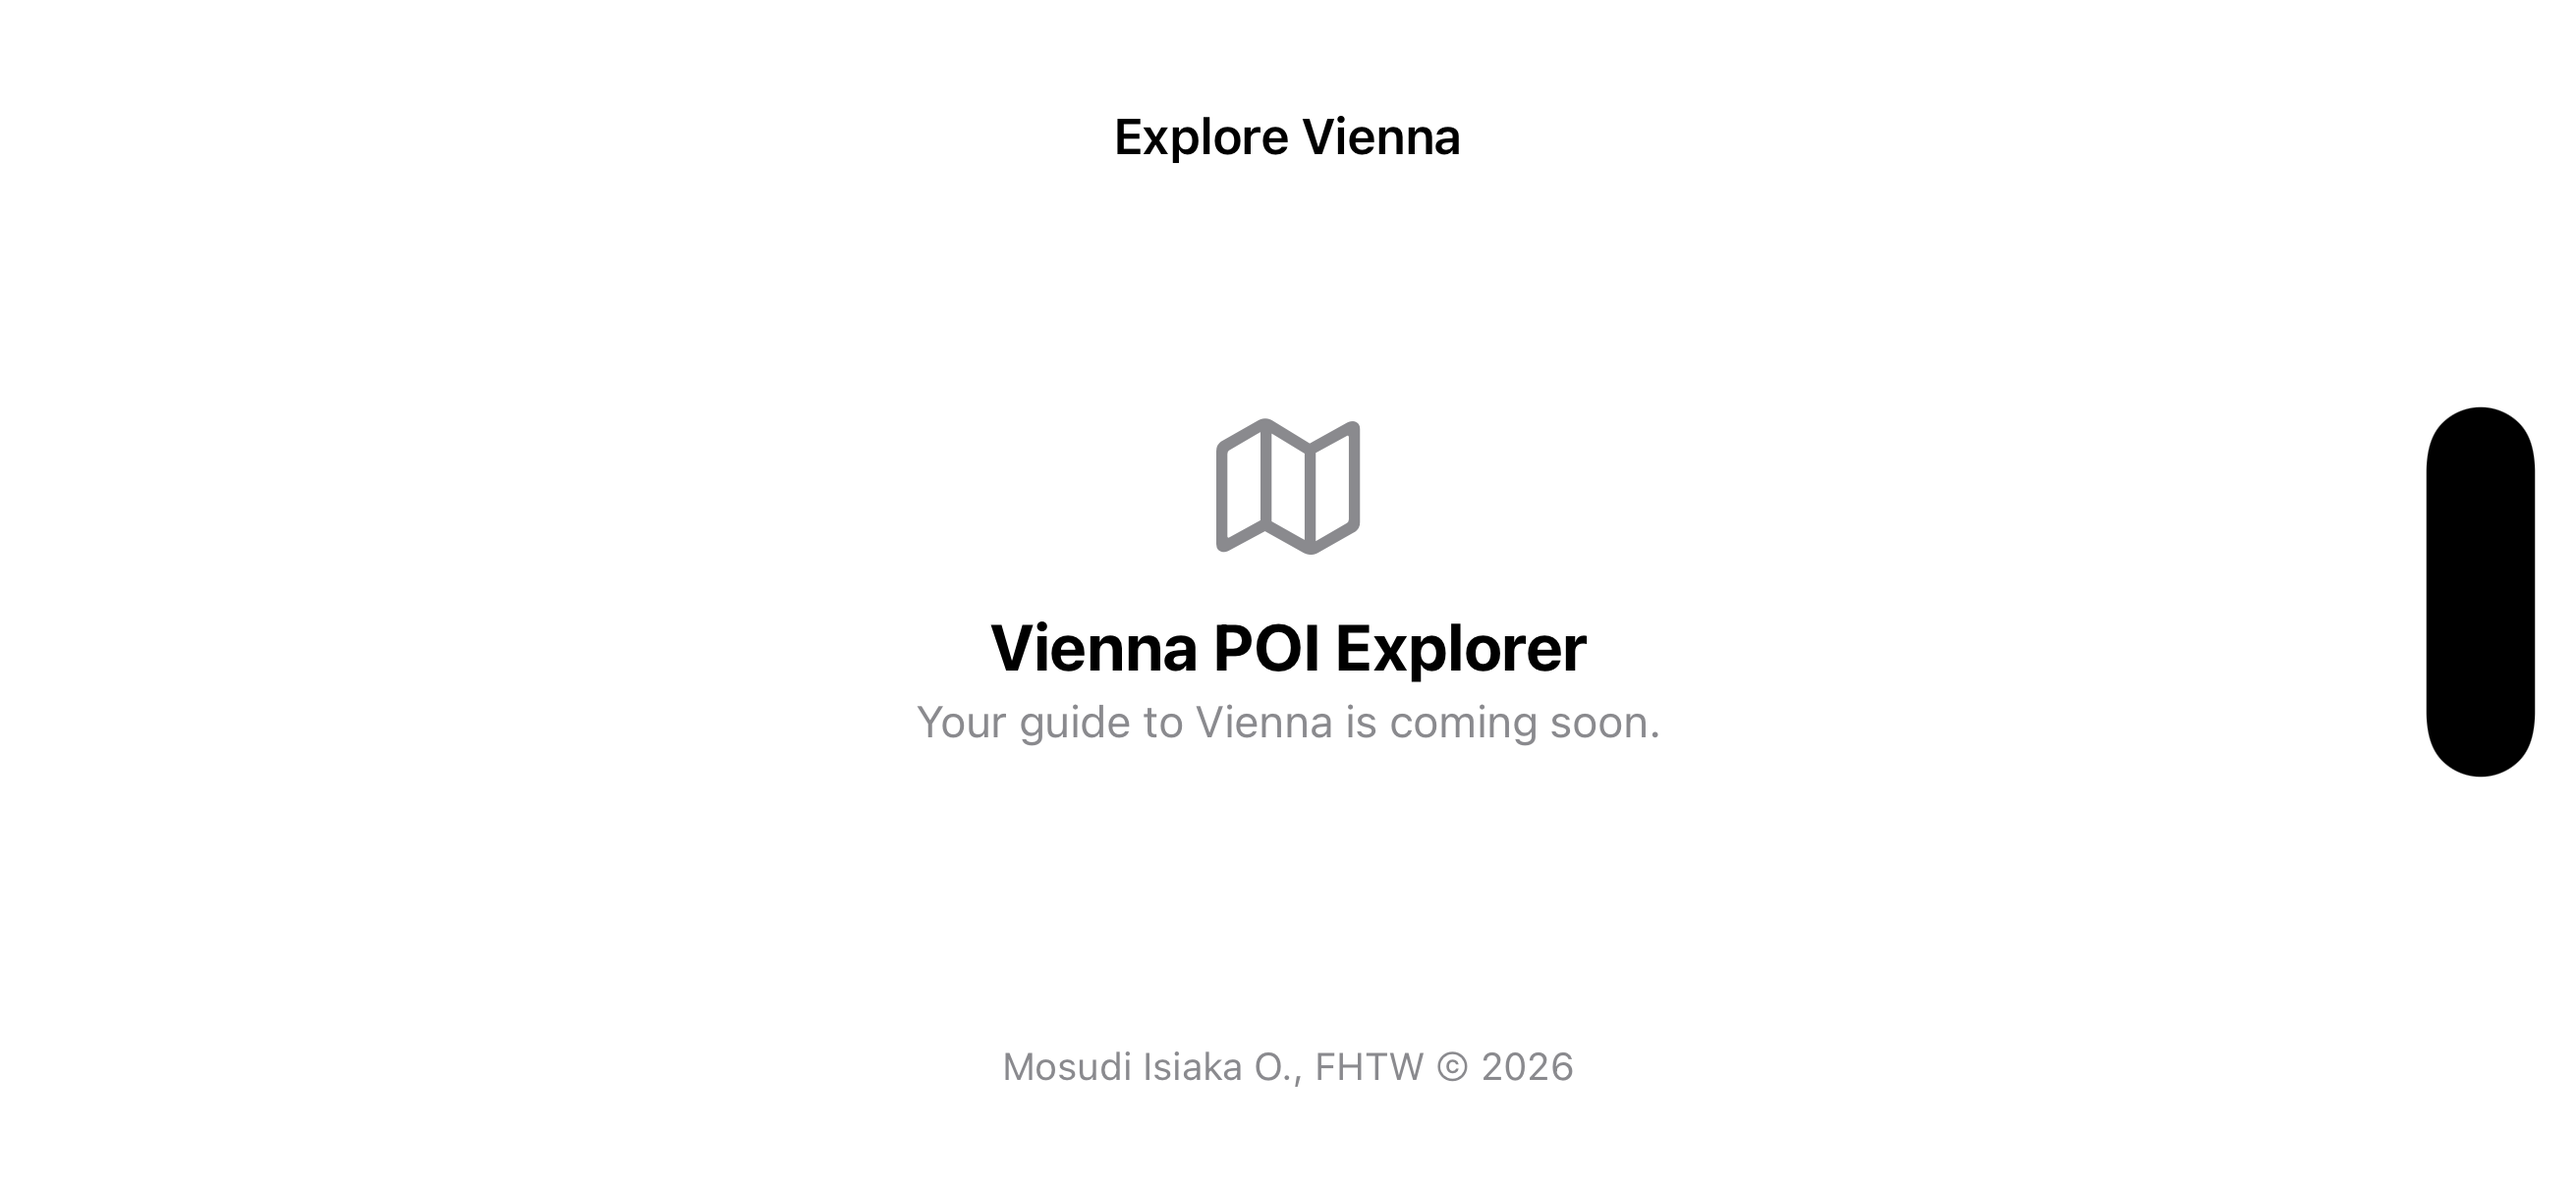
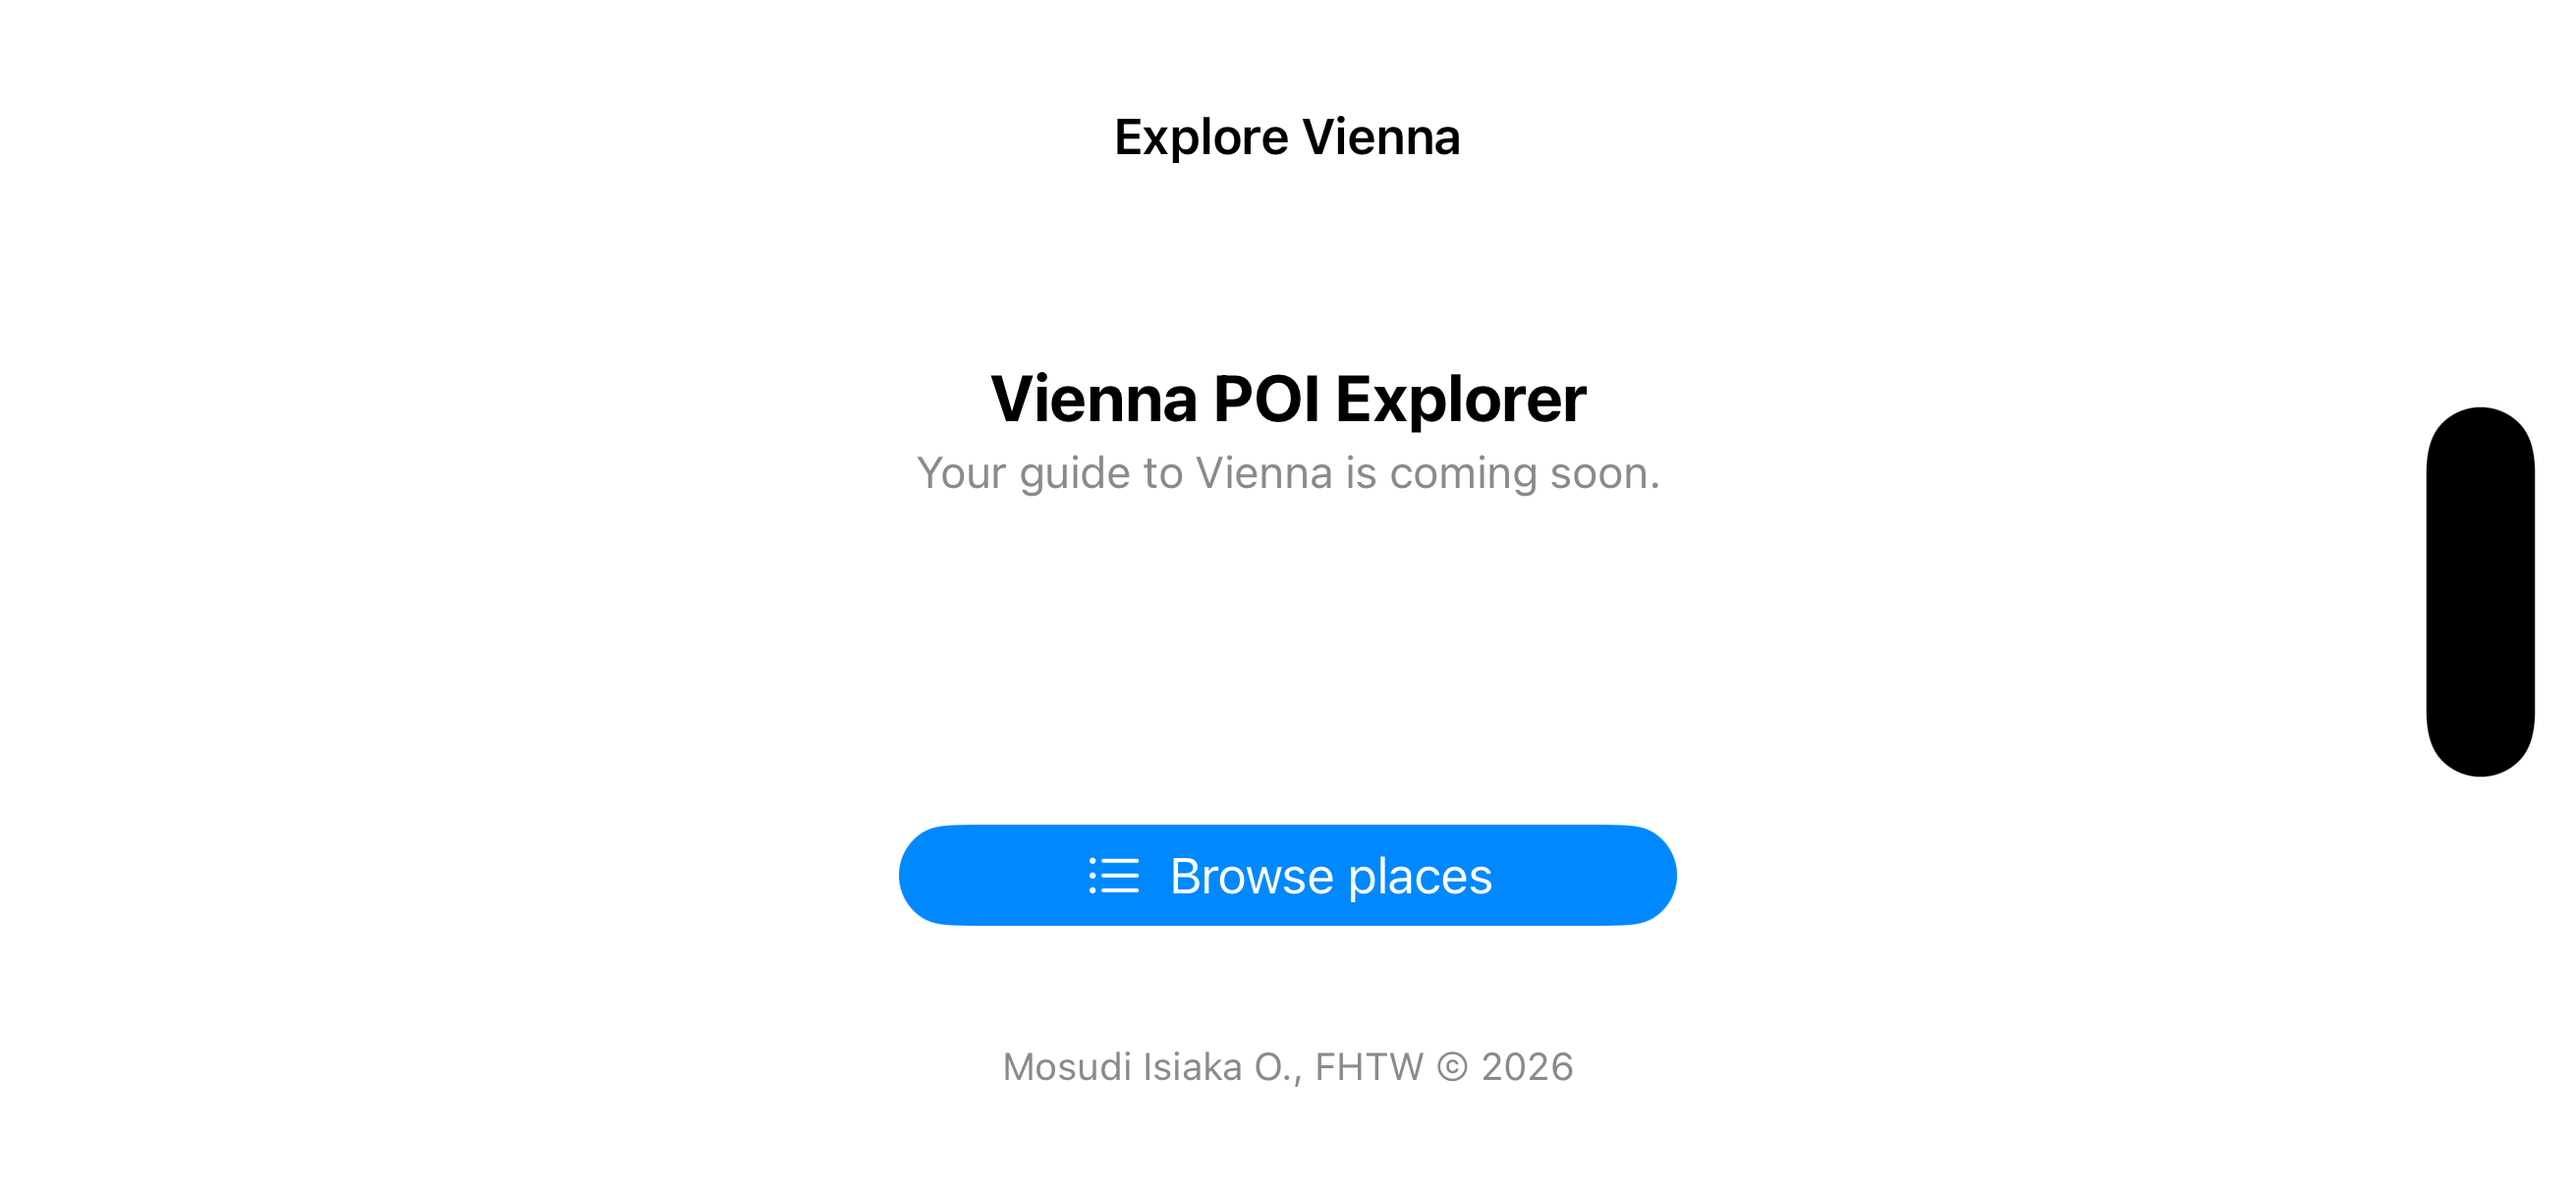
Screenshots

Changed region(s): [[0.3398, 0.675, 0.6487, 0.7977], [0.3707, 0.5216, 0.6487, 0.6443], [0.3707, 0.3068, 0.6487, 0.4602]]

diff --git a/README.md b/README.md
@@ -23,12 +23,18 @@ The app loads the City of Vienna dataset [Sehenswürdigkeiten Standorte Wien](ht
 
 Features without a stable identifier, a non-empty name, a `Point` geometry, or finite in-range coordinates are skipped instead of becoming invalid map/list entries. Missing descriptive values remain optional, invalid optional web links are omitted, and extra coordinate dimensions are ignored. Marker colour reflects only whether a valid `WEITERE_INF` link is present. The sample fixture in `poi-vienna-explorerTests/Fixtures/` contains unmodified records from the official response, including its nullable `SE_ANNO_CAD_DATA` field.
 
-## Debug screenshot
+## Screenshots
 
-Portrait:
+### Home screen
 
-![Vienna POI Explorer running in the iPhone simulator](screenshots/debug-screenshot.png)
+![Home screen in landscape](screenshots/debug-screenshot.png)
 
-Landscape:
+![Home screen in portrait](screenshots/debug-screenshot-landscape.png)
 
-![Vienna POI Explorer running in landscape in the iPhone simulator](screenshots/debug-screenshot-landscape.png)
+### POI map
+
+![POI map and selected place in landscape](screenshots/debug-screenshot-map-landscape.png)
+
+![POI map and selected place in portrait](screenshots/debug-screenshot-map.png)
+
+![POI map and selected place, additional capture](screenshots/debug-screenshot-landscape_poi.png)
